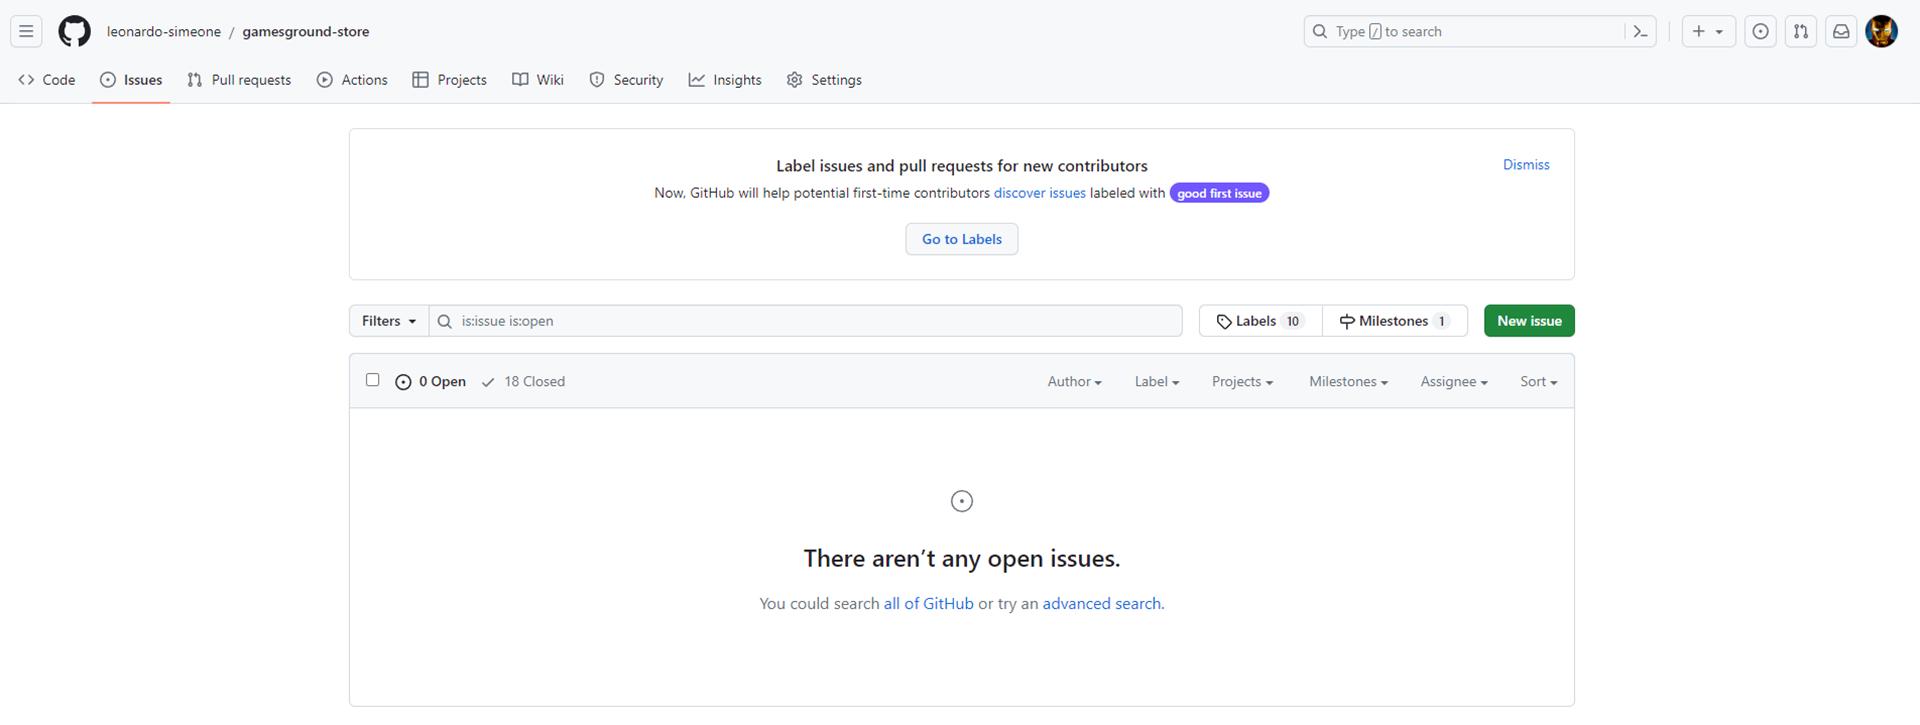
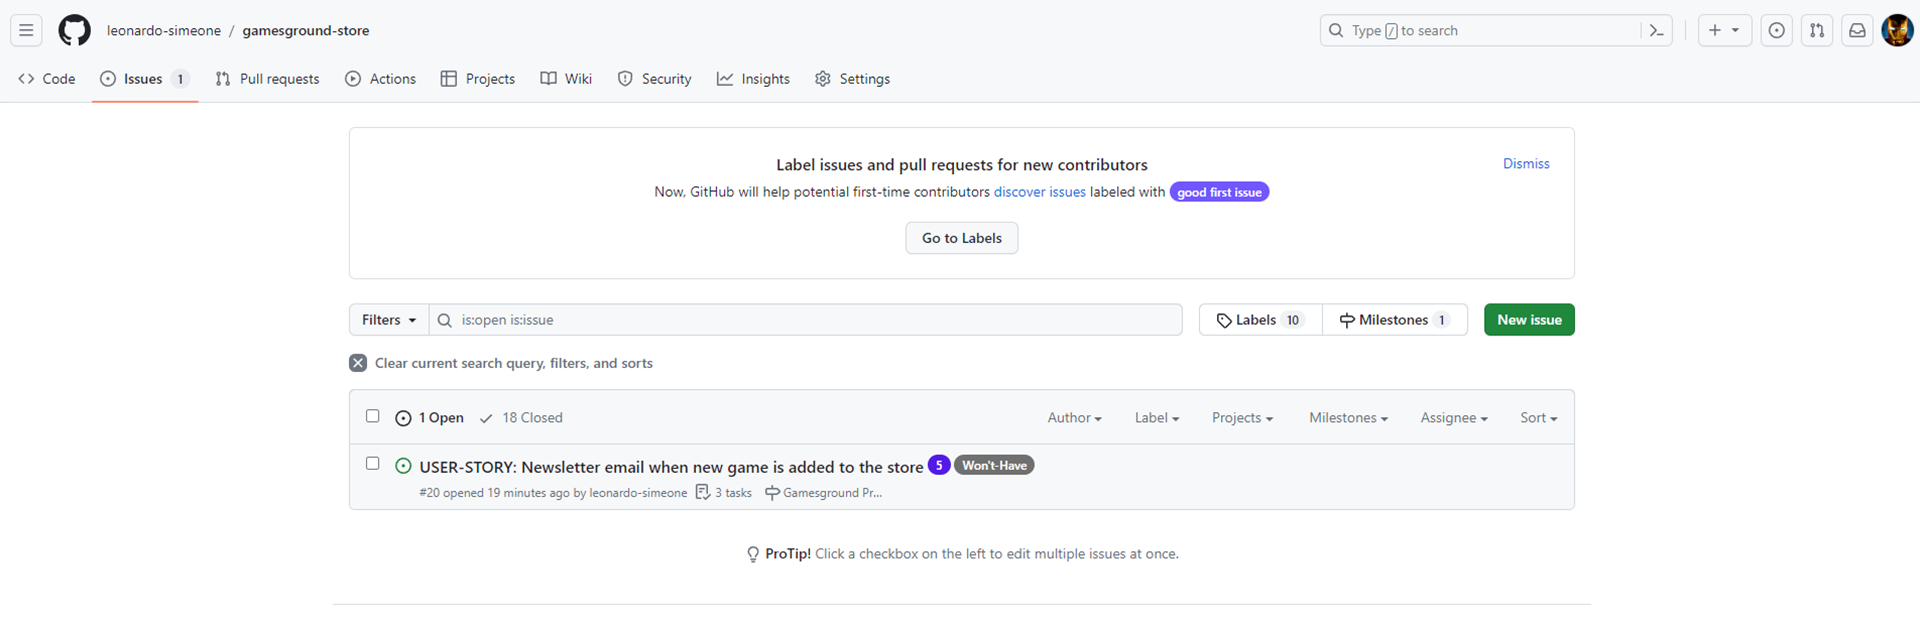
Update site users & github issues sections

diff --git a/README.md b/README.md
@@ -86,6 +86,7 @@ Store owners/admins can administer the site from the user interface, they have t
 - As a Site User I would like to contact the site administrator so that I can query/recommend the site admin on different topics, [Link here](https://github.com/leonardo-simeone/gamesground-store/issues/16).
 - As a Site User I would like to subscribe to a newsletter so that I can receive news, special offers and general information related to the store, [Link here](https://github.com/leonardo-simeone/gamesground-store/issues/17).
 - As a Site User I would like to navigate to the site's about us, terms & conditions and privacy policy links so that I can inform myself in more depth about the site, [Link here](https://github.com/leonardo-simeone/gamesground-store/issues/19).
+- As a Site User I would like to receive an email every time a new game is added to the store so that I will be up to date with what games are available, [Link here](https://github.com/leonardo-simeone/gamesground-store/issues/20).
 
 ### Site Admin
 
@@ -890,7 +891,7 @@ There, I used my own **User Story Template** to manage user stories.
 
 It also helped with milestone iterations on a weekly basis.
 
-- [Open Issues](https://github.com/leonardo-simeone/gamesground-store/issues?q=is%3Aopen+is%3Aissue), no open issues remaining.
+- [Open Issues](https://github.com/leonardo-simeone/gamesground-store/issues?q=is%3Aopen+is%3Aissue), There is only one open issue remaining (won't have) which will be addressed in a future iteration along with other issues to come for [Future Features](#future-features), [Link here](https://github.com/leonardo-simeone/gamesground-store/issues/20).
 
 ![screenshot](documentation/gh-issues-open.png)
 
